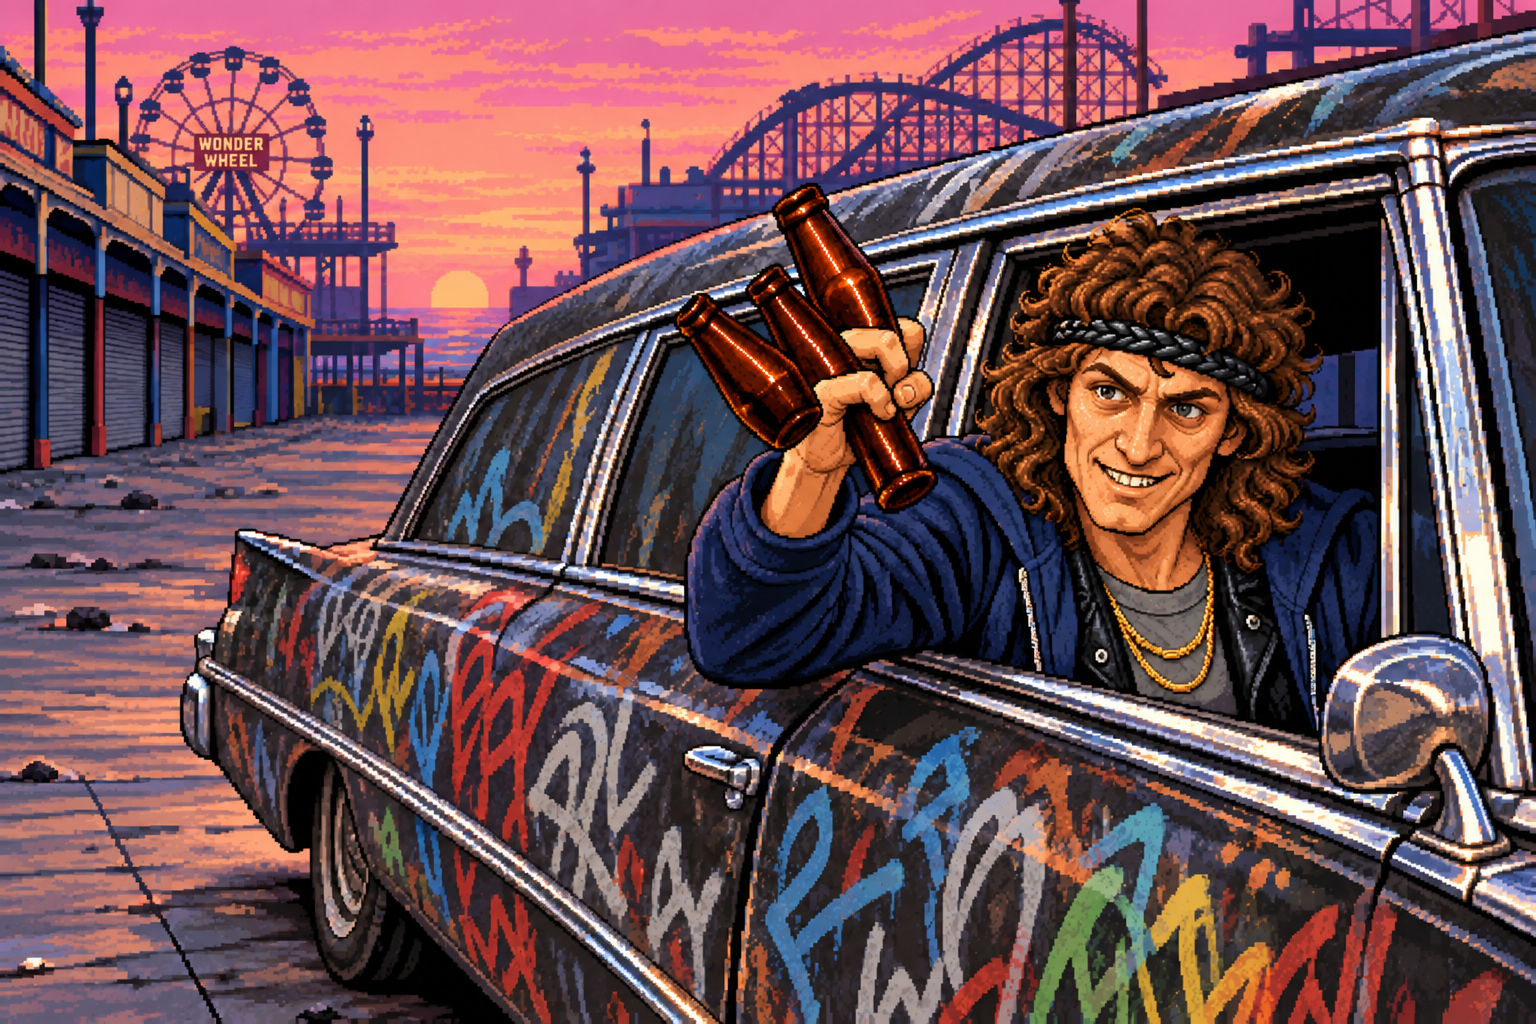
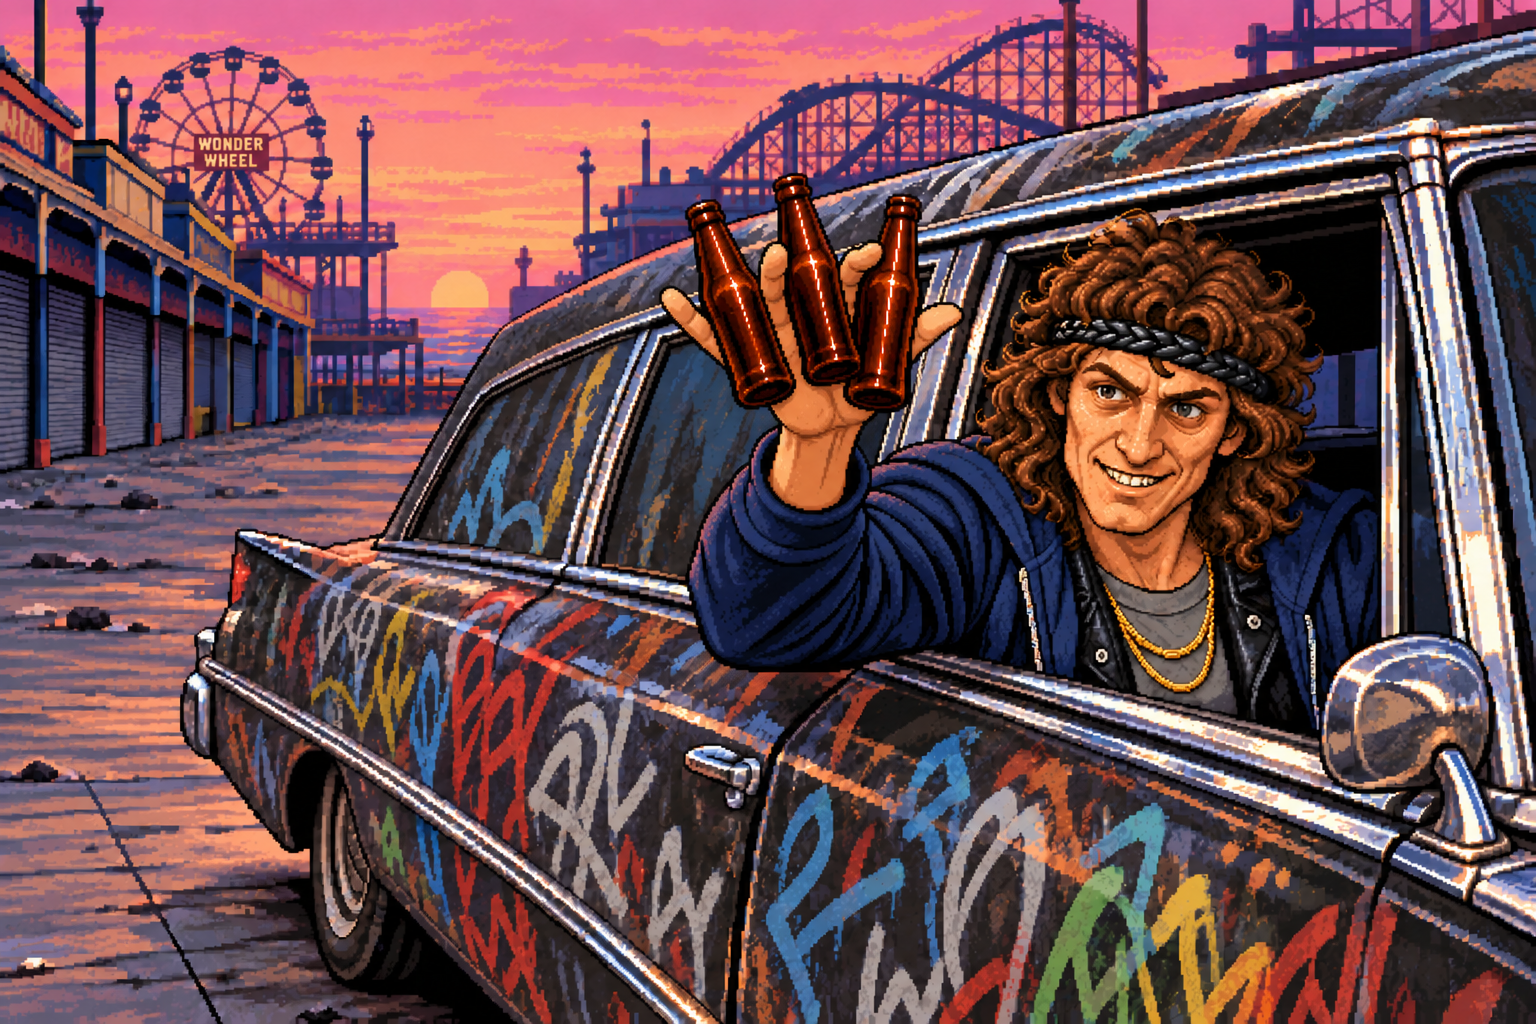
Immagini in arrivo: oggetti 471–475 e correzione bottiglie di Luther

diff --git a/assets/incoming/modelli/RIFARE.md b/assets/incoming/modelli/RIFARE.md
@@ -1,5 +1,3 @@
 # Da rifare
 
 Scrivi qui, una riga per set, i personaggi o i fondali da rifare e perché (es. `cowboy: il cappello deve essere scuro`). L'AI li rifà e poi cancella la riga.
-
-- `scene/cine_bottles`: la mano di Luther non va (stringe le bottiglie nel pugno, dita storte). Come nel film: mano alzata fuori dal finestrino, dita aperte e in proporzione, **tre bottiglie di vetro vuote infilate una fra ogni coppia di dita** (indice-medio, medio-anulare, anulare-mignolo), colli verso l'alto, che tintinnano fra loro. Resto dell'immagine uguale (carro funebre coi graffiti, Coney Island, Luther con la fascia). Rigenera `assets/incoming/scene/cine_bottles.png` con lo stesso nome.
